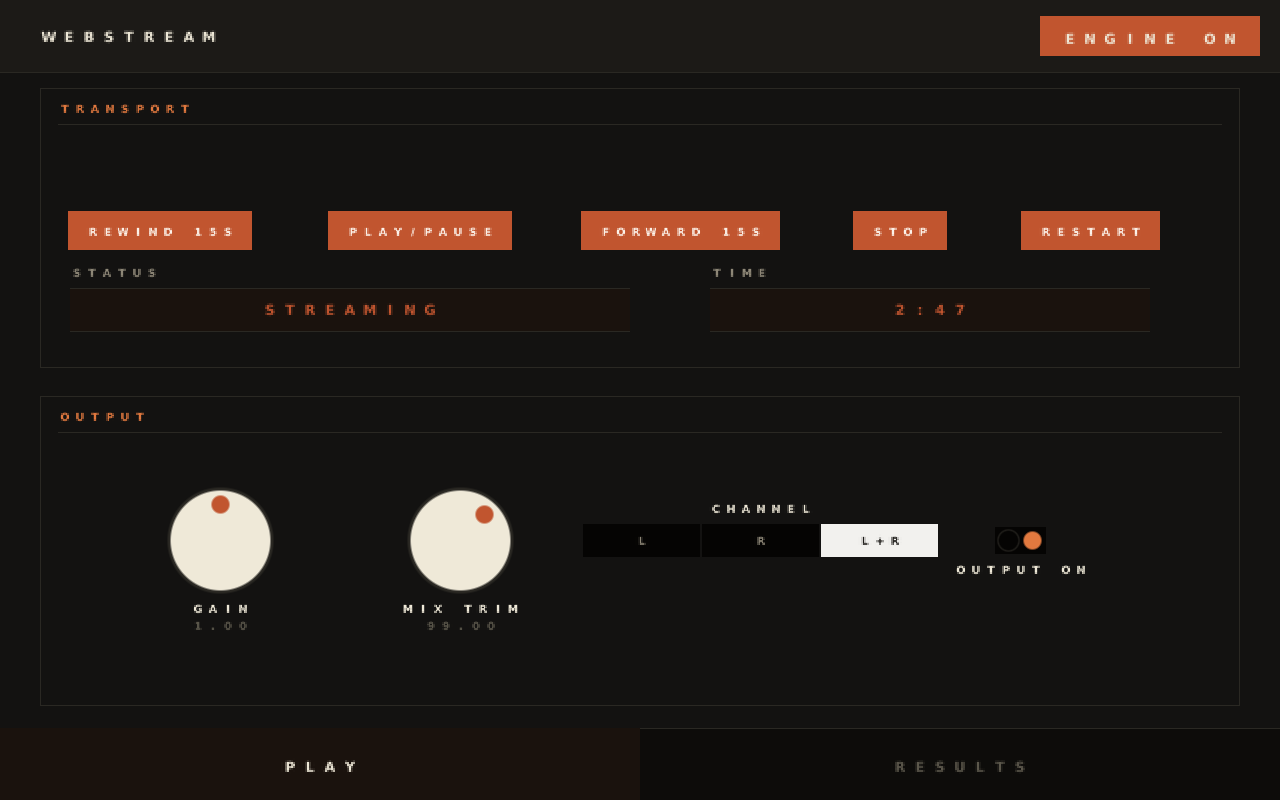
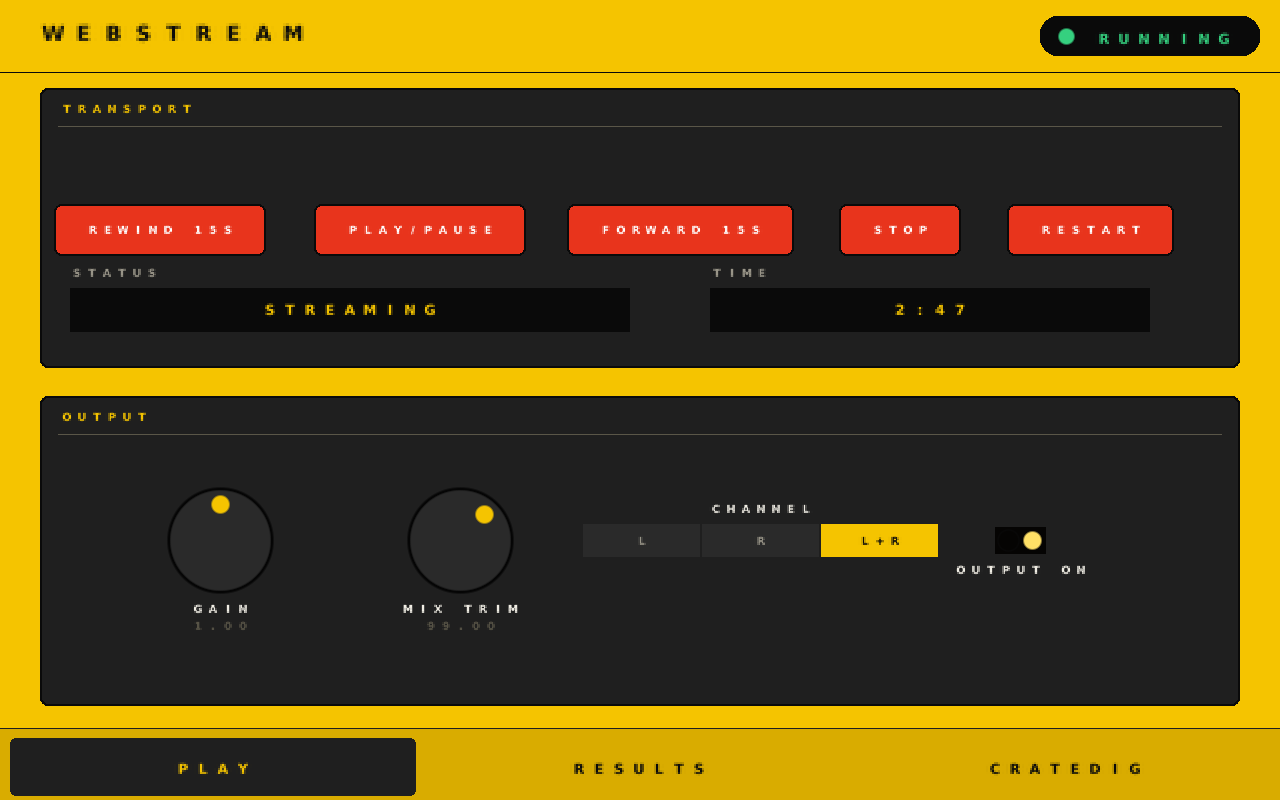
Shadow GUI: apply acid (style=td3) theme, add Crate Dig genre/decade picker
- addon/shadow_page.conf: style=td3 + force-acid's theme_* palette
  (colors and td3 shape are independent knobs - see conversation); new
  CRATEDIG tab (4x4 genre grid, decade stepper).
- webstream_host.cpp: CRATEDIG_GENRES/CRATEDIG_DECADES fixed tables
  (display label kept separate from the real Discogs-API value sent),
  cratedig_genre_index/cratedig_decade_index SET handlers that compose
  and forward the DSP core's own cratedig_filter (which itself triggers
  the search) - shadow-side selection is genre+decade only, documented
  as clobbering any style/country set from the web GUI.
- docs/previews/*.png: re-rendered with the new theme via force-shadow's
  render_conf_preview.c (separate repo, not committed here - now
  supports style=td3/theme_* overrides and the stepper widget).

Claude-Session: https://claude.ai/code/session_01EGbYHVPR4tDeSY3yHn56Zb

diff --git a/src/webstream_host.cpp b/src/webstream_host.cpp
@@ -78,6 +78,64 @@ static bool         g_verbose = false;
 static unsigned     g_mix_slot = 0;    /* which /forceAudioInjectN this instance owns */
 
 /* ---------------------------------------------------------------------------
+ * Crate Dig (Discogs) genre/decade pickers, for the shadow GUI's `list`
+ * (genre) and `stepper` (decade) widgets — see shadow_page.conf's
+ * CRATEDIG tab. There's no on-device keyboard, so unlike the web GUI's
+ * free-text genre/style/decade/country fields, the shadow GUI can only
+ * choose from a small fixed set here; style/country stay web-GUI-only
+ * (see the SET handlers below for the resulting, documented limitation:
+ * selecting genre/decade from the shadow GUI sends a filter with EMPTY
+ * style/country, so it clobbers whatever those were set to from the web
+ * GUI - crate-dig filtering is one UI at a time, not merged state).
+ *
+ * `label` is what's actually drawn (Force Shadow's font is upper-case-only
+ * with almost no punctuation - see shadow_font_safe()'s own comment), kept
+ * deliberately separate from `value`, the literal string sent to Discogs
+ * via the DSP core's own cratedig_filter protocol (yt_dlp_daemon.py's
+ * _build_search_params()) - genre names there are Discogs' own official
+ * taxonomy (commas/ampersands and all) and decade values specifically
+ * need a lower-case trailing "s" (daemon does `.replace("s", "")|`) so the
+ * two must not be the same string.
+ * ------------------------------------------------------------------------- */
+struct CratedigOption { const char *label; const char *value; };
+
+static const CratedigOption CRATEDIG_GENRES[] = {
+    { "ANY",                  "" },
+    { "BLUES",                "Blues" },
+    { "BRASS + MILITARY",     "Brass & Military" },
+    { "CHILDRENS",            "Children's" },
+    { "CLASSICAL",            "Classical" },
+    { "ELECTRONIC",           "Electronic" },
+    { "FOLK WORLD COUNTRY",   "Folk, World, & Country" },
+    { "FUNK / SOUL",          "Funk / Soul" },
+    { "HIP HOP",              "Hip Hop" },
+    { "JAZZ",                 "Jazz" },
+    { "LATIN",                "Latin" },
+    { "NON-MUSIC",            "Non-Music" },
+    { "POP",                  "Pop" },
+    { "REGGAE",               "Reggae" },
+    { "ROCK",                 "Rock" },
+    { "STAGE + SCREEN",       "Stage & Screen" },
+};
+static const int N_CRATEDIG_GENRES = (int)(sizeof(CRATEDIG_GENRES) / sizeof(CRATEDIG_GENRES[0]));
+
+static const CratedigOption CRATEDIG_DECADES[] = {
+    { "ANY",   "" },
+    { "1950S", "1950s" },
+    { "1960S", "1960s" },
+    { "1970S", "1970s" },
+    { "1980S", "1980s" },
+    { "1990S", "1990s" },
+    { "2000S", "2000s" },
+    { "2010S", "2010s" },
+    { "2020S", "2020s" },
+};
+static const int N_CRATEDIG_DECADES = (int)(sizeof(CRATEDIG_DECADES) / sizeof(CRATEDIG_DECADES[0]));
+
+static int g_cd_genre_idx = 0;
+static int g_cd_decade_idx = 0;
+
+/* ---------------------------------------------------------------------------
  * Shared-memory ring setup (producer side) — identical in shape to
  * maze_host's; see forceAudioInject.h for the full ABI contract.
  * ------------------------------------------------------------------------- */
@@ -229,6 +287,26 @@ static void timer_loop() {
  *    This composes those two calls server-side so the shadow page and web
  *    GUI can both just "select result N" without duplicating that
  *    two-step protocol knowledge in two different UIs.
+ *  - "cratedig_genre_index" / "cratedig_decade_index" (SET, integer index)
+ *    and "cratedig_genre_options_json" / "cratedig_genre_sel" /
+ *    "cratedig_decade_text" / "cratedig_decade_idx" / "cratedig_decade_count"
+ *    (GET) — the shadow GUI's CRATEDIG tab has no keyboard, so unlike the
+ *    web GUI's free-text genre/style/decade/country fields it can only
+ *    pick from the small fixed CRATEDIG_GENRES/CRATEDIG_DECADES tables
+ *    above (a `list` widget for genre, a `stepper` for decade). Setting
+ *    either index composes a cratedig_filter JSON from BOTH current
+ *    indices (with style/country always empty) and forwards it to the
+ *    core's real "cratedig_filter" key, which is itself what triggers the
+ *    actual Discogs search — see send_cratedig_filter_from_shadow_state_
+ *    locked()'s own comment for the resulting limitation (shadow-side
+ *    filtering clobbers any style/country set from the web GUI).
+ *  - "<key>_shadow" (GET, generic suffix) — strips the suffix, fetches the
+ *    real value (core or mix.*), and runs it through shadow_font_safe().
+ *    Most of the core's own text status values (stream_status:
+ *    "streaming"/"paused"/...; search_status: "idle"/"searching"/...) are
+ *    lowercase words that would render the same way search results did
+ *    before the fix above. playback_time is exempt (digits + ':' only,
+ *    already safe) so its readout uses the plain key directly.
  * ------------------------------------------------------------------------- */
 static bool handle_mix_set(const std::string &key, const std::string &val) {
     if (key == "mix.enabled") {
@@ -385,6 +463,19 @@ static bool handle_play_result_index_locked(int idx, std::string &err) {
     return true;
 }
 
+/* Sends the currently-selected genre/decade as the DSP core's own
+ * cratedig_filter key (style/country always empty from this path - see
+ * CRATEDIG_GENRES' own comment). Setting cratedig_filter is itself what
+ * triggers the actual Discogs search (v2_set_param's own handling, not
+ * something this shim adds), so every shadow-side genre/decade tap
+ * re-searches immediately, same as the web GUI's filter form. */
+static void send_cratedig_filter_from_shadow_state_locked() {
+    std::string json = "{\"genre\":\"" + json_escape(CRATEDIG_GENRES[g_cd_genre_idx].value) +
+                        "\",\"style\":\"\",\"decade\":\"" + json_escape(CRATEDIG_DECADES[g_cd_decade_idx].value) +
+                        "\",\"country\":\"\"}";
+    g_api->set_param(g_inst, "cratedig_filter", json.c_str());
+}
+
 static void handle_ctrl_line(int fd, const std::string &line) {
     char cmd[16] = {0}, key[64] = {0}, val[256] = {0};
     if (sscanf(line.c_str(), "%15s", cmd) != 1) { send(fd, "ERR\n", 4, 0); return; }
@@ -404,6 +495,24 @@ static void handle_ctrl_line(int fd, const std::string &line) {
             else send(fd, "ERR\n", 4, 0);
             return;
         }
+        if (!strcmp(key, "cratedig_genre_index")) {
+            int idx = std::atoi(val);
+            if (idx < 0 || idx >= N_CRATEDIG_GENRES) { send(fd, "ERR\n", 4, 0); return; }
+            std::lock_guard<std::mutex> lk(g_lock);
+            g_cd_genre_idx = idx;
+            send_cratedig_filter_from_shadow_state_locked();
+            send(fd, "OK\n", 3, 0);
+            return;
+        }
+        if (!strcmp(key, "cratedig_decade_index")) {
+            int idx = std::atoi(val);
+            if (idx < 0 || idx >= N_CRATEDIG_DECADES) { send(fd, "ERR\n", 4, 0); return; }
+            std::lock_guard<std::mutex> lk(g_lock);
+            g_cd_decade_idx = idx;
+            send_cratedig_filter_from_shadow_state_locked();
+            send(fd, "OK\n", 3, 0);
+            return;
+        }
         std::lock_guard<std::mutex> lk(g_lock);
         g_api->set_param(g_inst, key, val);
         send(fd, "OK\n", 3, 0);
@@ -420,6 +529,36 @@ static void handle_ctrl_line(int fd, const std::string &line) {
             bool shadow_safe = !strcmp(key, "search_results_shadow_json");
             std::lock_guard<std::mutex> lk(g_lock);
             std::string reply = build_search_results_json_locked(shadow_safe) + "\n";
+            send(fd, reply.c_str(), reply.size(), 0);
+            return;
+        }
+        if (!strcmp(key, "cratedig_genre_options_json")) {
+            std::string json = "[";
+            for (int i = 0; i < N_CRATEDIG_GENRES; i++) {
+                if (i) json += ",";
+                json += "{\"label\":\"" + json_escape(CRATEDIG_GENRES[i].label) + "\"}";
+            }
+            json += "]\n";
+            send(fd, json.c_str(), json.size(), 0);
+            return;
+        }
+        if (!strcmp(key, "cratedig_genre_sel")) {
+            std::string reply = std::to_string(g_cd_genre_idx) + "\n";
+            send(fd, reply.c_str(), reply.size(), 0);
+            return;
+        }
+        if (!strcmp(key, "cratedig_decade_text")) {
+            std::string reply = std::string(CRATEDIG_DECADES[g_cd_decade_idx].label) + "\n";
+            send(fd, reply.c_str(), reply.size(), 0);
+            return;
+        }
+        if (!strcmp(key, "cratedig_decade_idx")) {
+            std::string reply = std::to_string(g_cd_decade_idx) + "\n";
+            send(fd, reply.c_str(), reply.size(), 0);
+            return;
+        }
+        if (!strcmp(key, "cratedig_decade_count")) {
+            std::string reply = std::to_string(N_CRATEDIG_DECADES) + "\n";
             send(fd, reply.c_str(), reply.size(), 0);
             return;
         }
